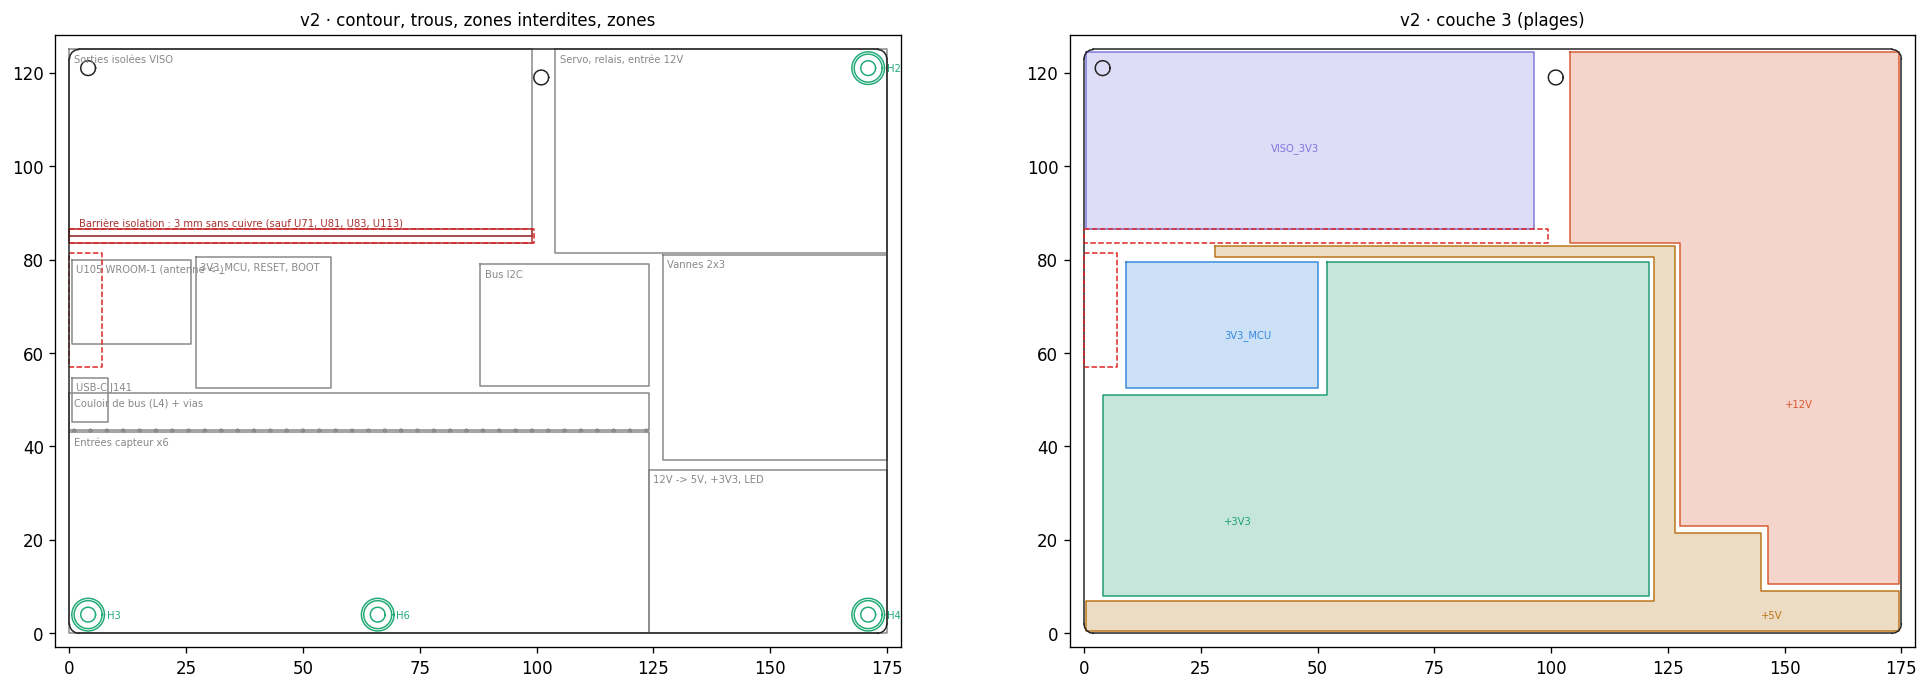
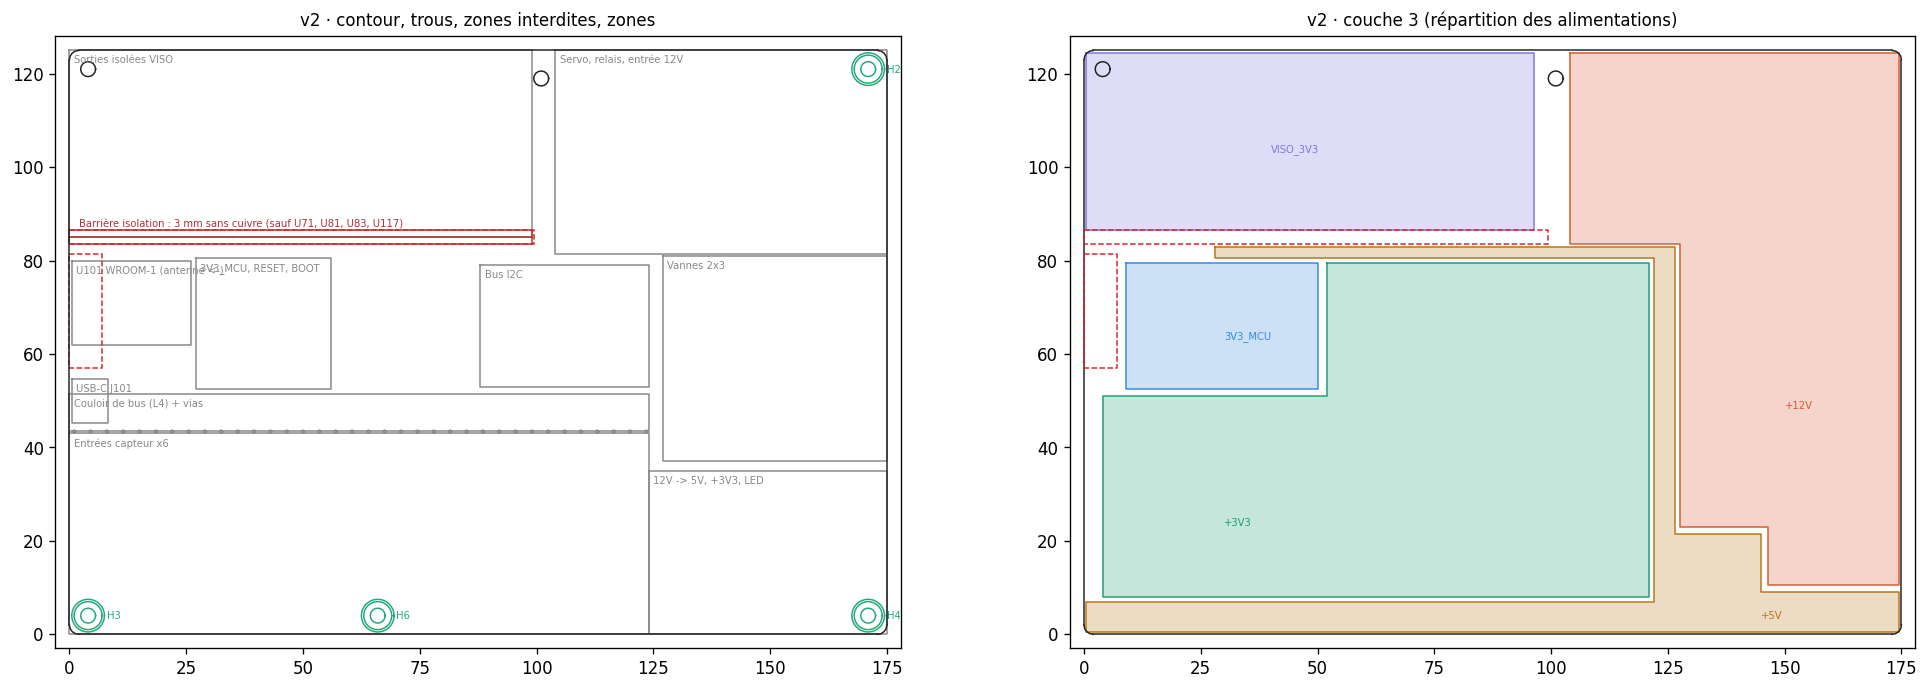
DXF v2 : textes à la numérotation EasyEDA actuelle (U101, J101, U117…), aperçu régénéré

diff --git a/pcb/dxf/make_dxf.py b/pcb/dxf/make_dxf.py
@@ -40,7 +40,7 @@ for h, (x, y, k) in HOLES.items():
         txt(m, h + (" (option)" if "option" in k else ""), x + 4, y - 1, 1.5, "TROUS_GND")
 d.saveas("TriggerFlow_2_trous_GND.dxf")
 
-# ---------- 3. zones interdites (antenne, bande sous U113)  -> à convertir en zones interdites ----------
+# ---------- 3. zones interdites (antenne, bande sous U117)  -> à convertir en zones interdites ----------
 d = new(); m = d.modelspace(); d.layers.add("INTERDIT", color=1)
 rect(m, 0, 43.5, 7, 68, "INTERDIT")                                 # antenne du module au bord : sans cuivre, toutes couches
 rect(m, 0, 38.5, 99.4, 41.5, "INTERDIT")                            # barrière d'isolation
@@ -49,12 +49,12 @@ d.saveas("TriggerFlow_3_zones_interdites.dxf")
 # ---------- 4. plan des zones (repères de routage)  -> couche Document ----------
 d = new(); m = d.modelspace(); d.layers.add("ZONES", color=8); d.layers.add("BARRIERE", color=1)
 Z = [("Sorties isolées VISO", 0, 0, 99, 40), ("Servo, relais, entrée 12V", 104, 0, 175, 43.5),
-     ("U105 WROOM-1 (antenne <-)", 0.5, 45, 26, 63), ("USB-C J141", 0.5, 70.3, 8.3, 79.7), ("3V3_MCU, RESET, BOOT", 27, 44.5, 56, 72.5), ("Bus I2C", 88, 46, 124, 72), ("Couloir de bus (L4) + vias", 0, 73.5, 124, 81.5),
+     ("U101 WROOM-1 (antenne <-)", 0.5, 45, 26, 63), ("USB-C J101", 0.5, 70.3, 8.3, 79.7), ("3V3_MCU, RESET, BOOT", 27, 44.5, 56, 72.5), ("Bus I2C", 88, 46, 124, 72), ("Couloir de bus (L4) + vias", 0, 73.5, 124, 81.5),
      ("Vannes 2x3", 127, 44, 175, 88), ("Entrées capteur x6", 0, 82, 124, 125), ("12V -> 5V, +3V3, LED", 124, 90, 175, 125)]
 for t, x1, y1, x2, y2 in Z:
     rect(m, x1, y1, x2, y2, "ZONES"); txt(m, t, x1 + 1, y1 + 1, 1.8, "ZONES")
 m.add_line(F(0, 40), F(99, 40), dxfattribs={"layer": "BARRIERE"})
-rect(m, 0, 38.5, 99, 41.5, "BARRIERE"); txt(m, "Barrière isolation : 3 mm sans cuivre (sauf U71, U81, U83, U113)", 2, 36.2, 1.4, "BARRIERE")
+rect(m, 0, 38.5, 99, 41.5, "BARRIERE"); txt(m, "Barrière isolation : 3 mm sans cuivre (sauf U71, U81, U83, U117)", 2, 36.2, 1.4, "BARRIERE")
 for x in [1 + 3.5 * i for i in range(36)]: m.add_circle(F(x, 81.6), 0.3, dxfattribs={"layer": "ZONES"})   # rangée de vias de couture
 d.saveas("TriggerFlow_4_zones_document.dxf")
 
@@ -62,9 +62,9 @@ d.saveas("TriggerFlow_4_zones_document.dxf")
 d = new(); m = d.modelspace()
 for n, c in (("L3_VISO_3V3", 6), ("L3_+12V", 1), ("L3_+3V3", 4), ("L3_+5V", 2), ("L3_3V3_MCU", 5)): d.layers.add(n, color=c)
 rect(m, 0.5, 0.5, 96.3, 38.5, "L3_VISO_3V3")
-poly(m, [(104, 0.5), (174.5, 0.5), (174.5, 114.5), (146.5, 114.5), (146.5, 102), (127.5, 102), (127.5, 41.5), (104, 41.5)], "L3_+12V")   # v2 : jusqu'à l'entrée de U111 (coin avant droit)
+poly(m, [(104, 0.5), (174.5, 0.5), (174.5, 114.5), (146.5, 114.5), (146.5, 102), (127.5, 102), (127.5, 41.5), (104, 41.5)], "L3_+12V")   # v2 : jusqu'à l'entrée de U115 (coin avant droit)
 poly(m, [(52, 45.5), (121, 45.5), (121, 117), (4, 117), (4, 74), (52, 74)], "L3_+3V3")
-rect(m, 9, 45.5, 50, 72.5, "L3_3V3_MCU")          # rail du module (U141 -> U105)
+rect(m, 9, 45.5, 50, 72.5, "L3_3V3_MCU")          # rail du module (U104 -> U101)
 poly(m, [(28, 42), (126.5, 42), (126.5, 103.5), (145, 103.5), (145, 116), (174.5, 116), (174.5, 124.5), (0.5, 124.5), (0.5, 118), (122, 118), (122, 44.5), (28, 44.5)], "L3_+5V")   # v2 : plus de bande gauche, tronçon prolongé jusqu'à D101 (x = 28)
 for t, x, y in (("VISO_3V3", 40, 20), ("+12V", 150, 75), ("+3V3", 30, 100), ("+5V", 145, 120), ("3V3_MCU", 30, 60)): txt(m, t, x, y, 3, "L3_" + t)
 d.saveas("TriggerFlow_5_couche3_plages.dxf")
